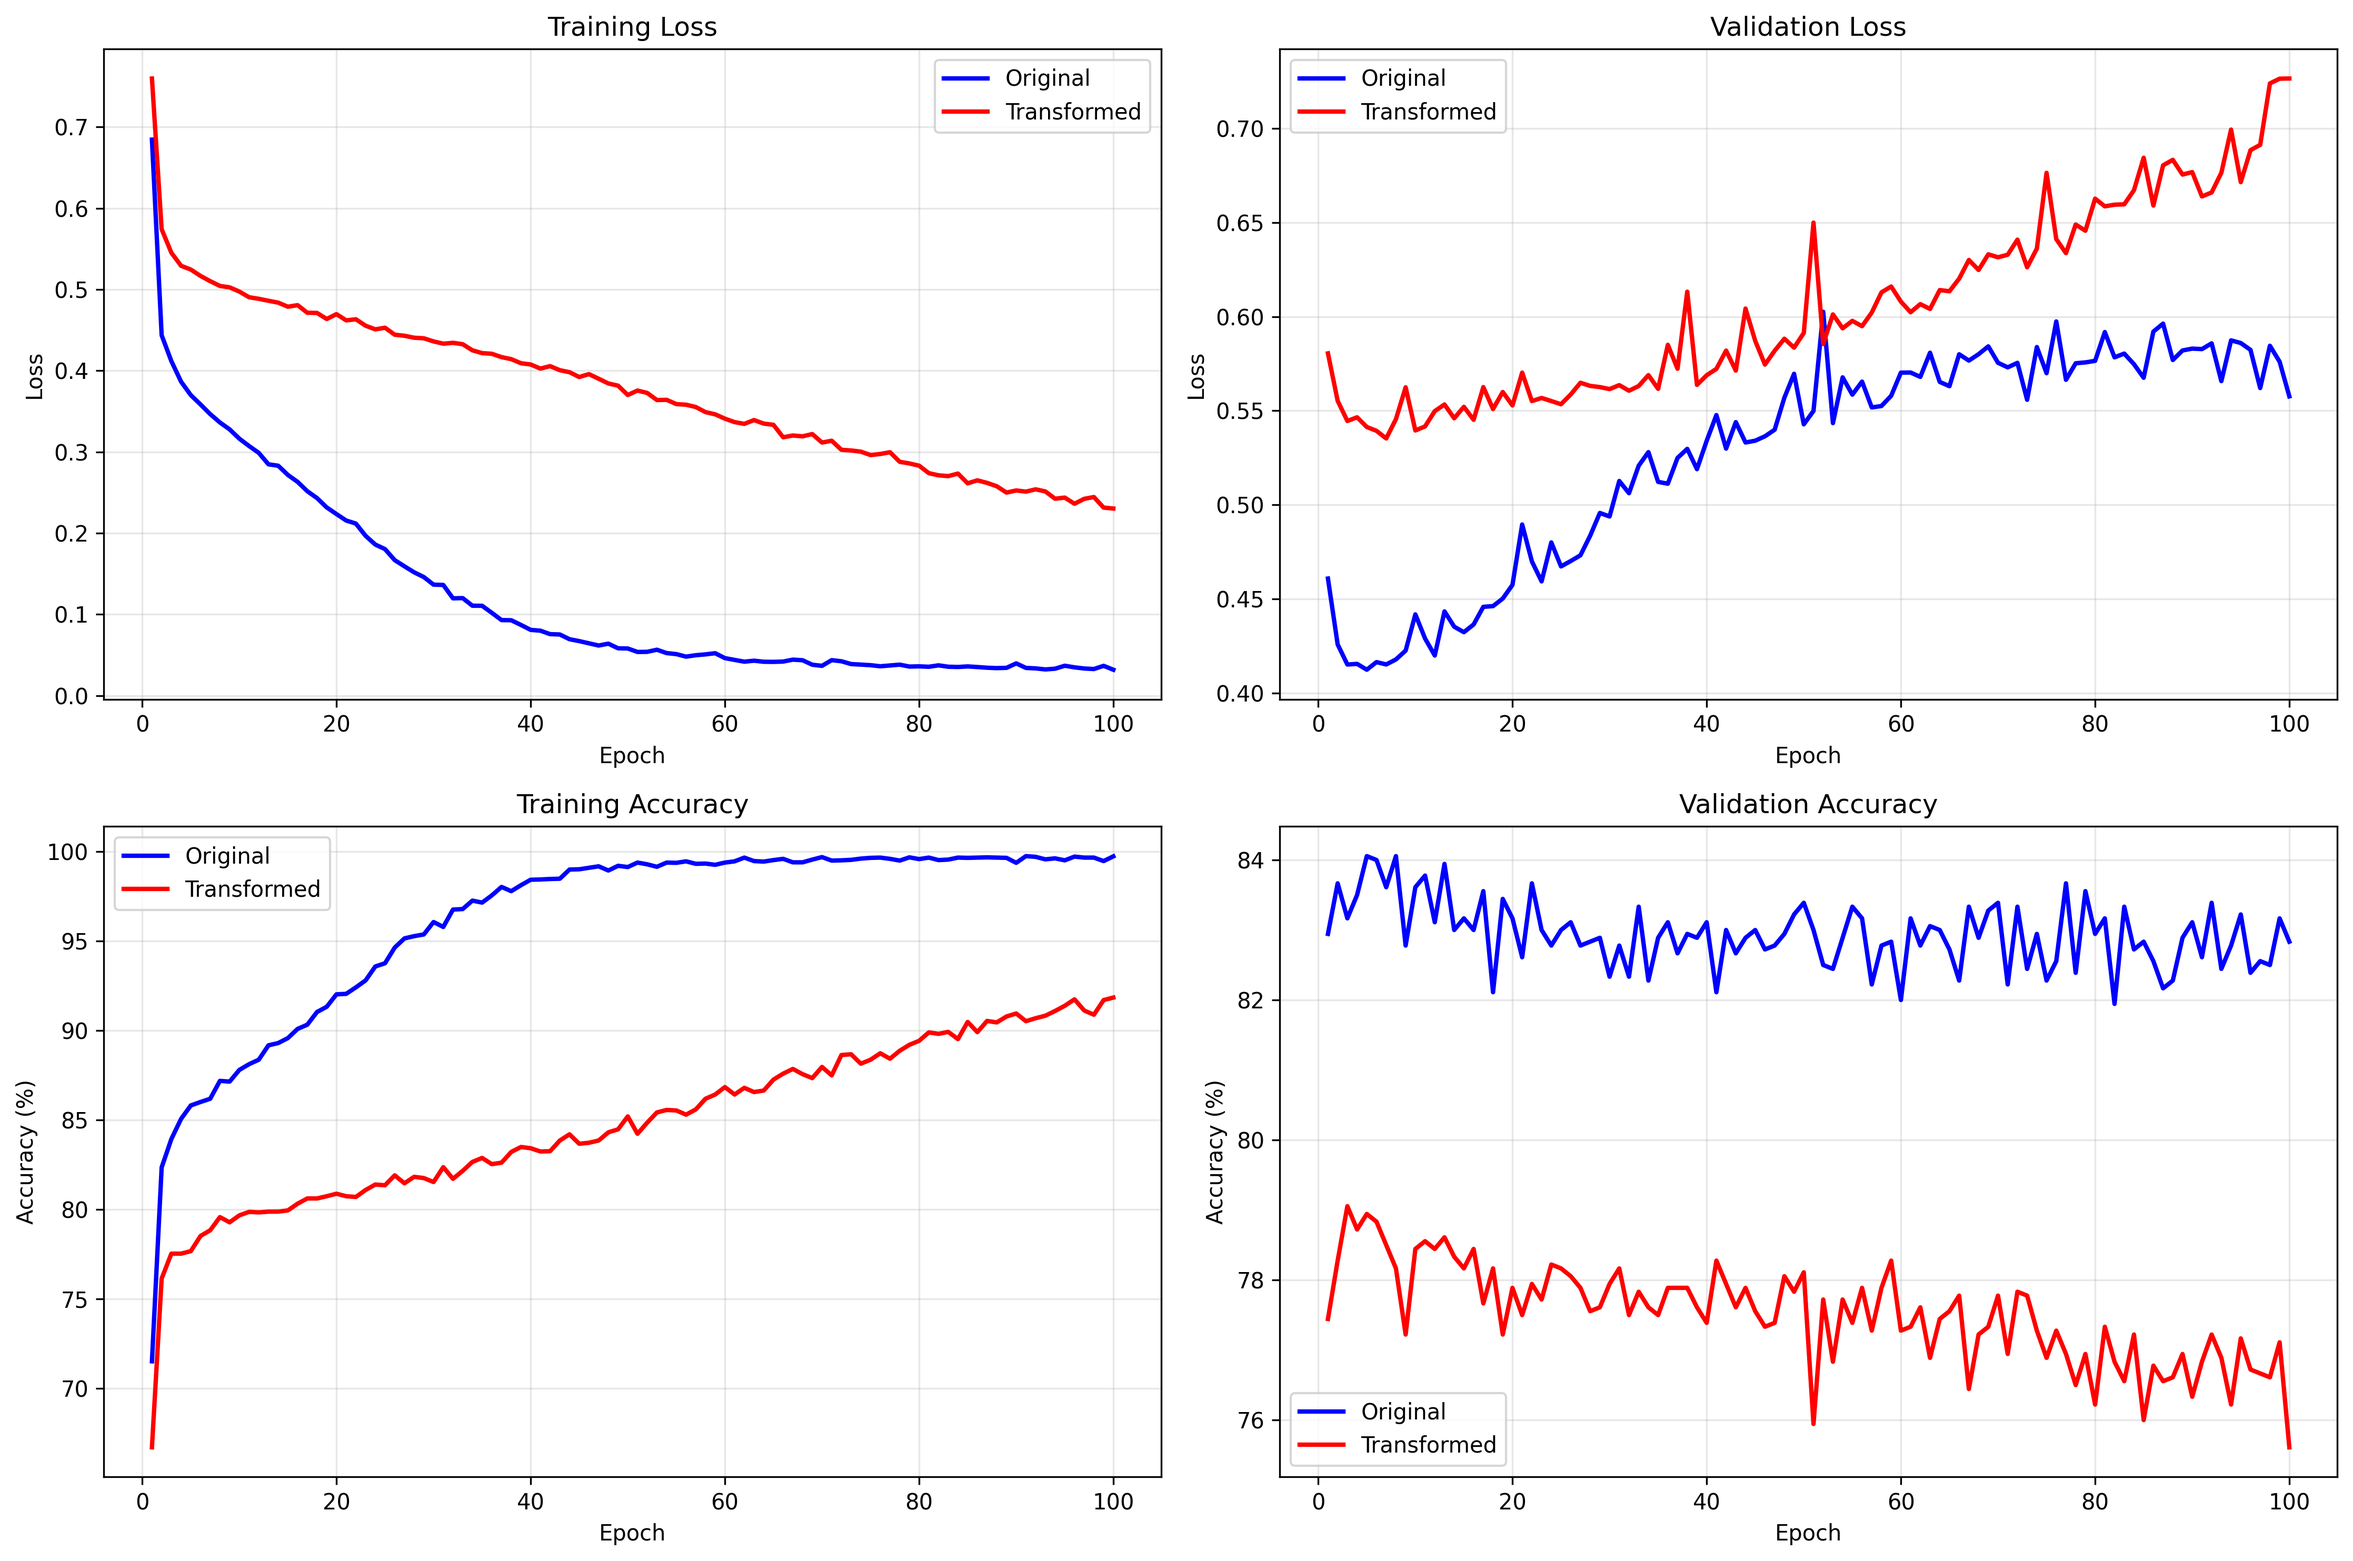
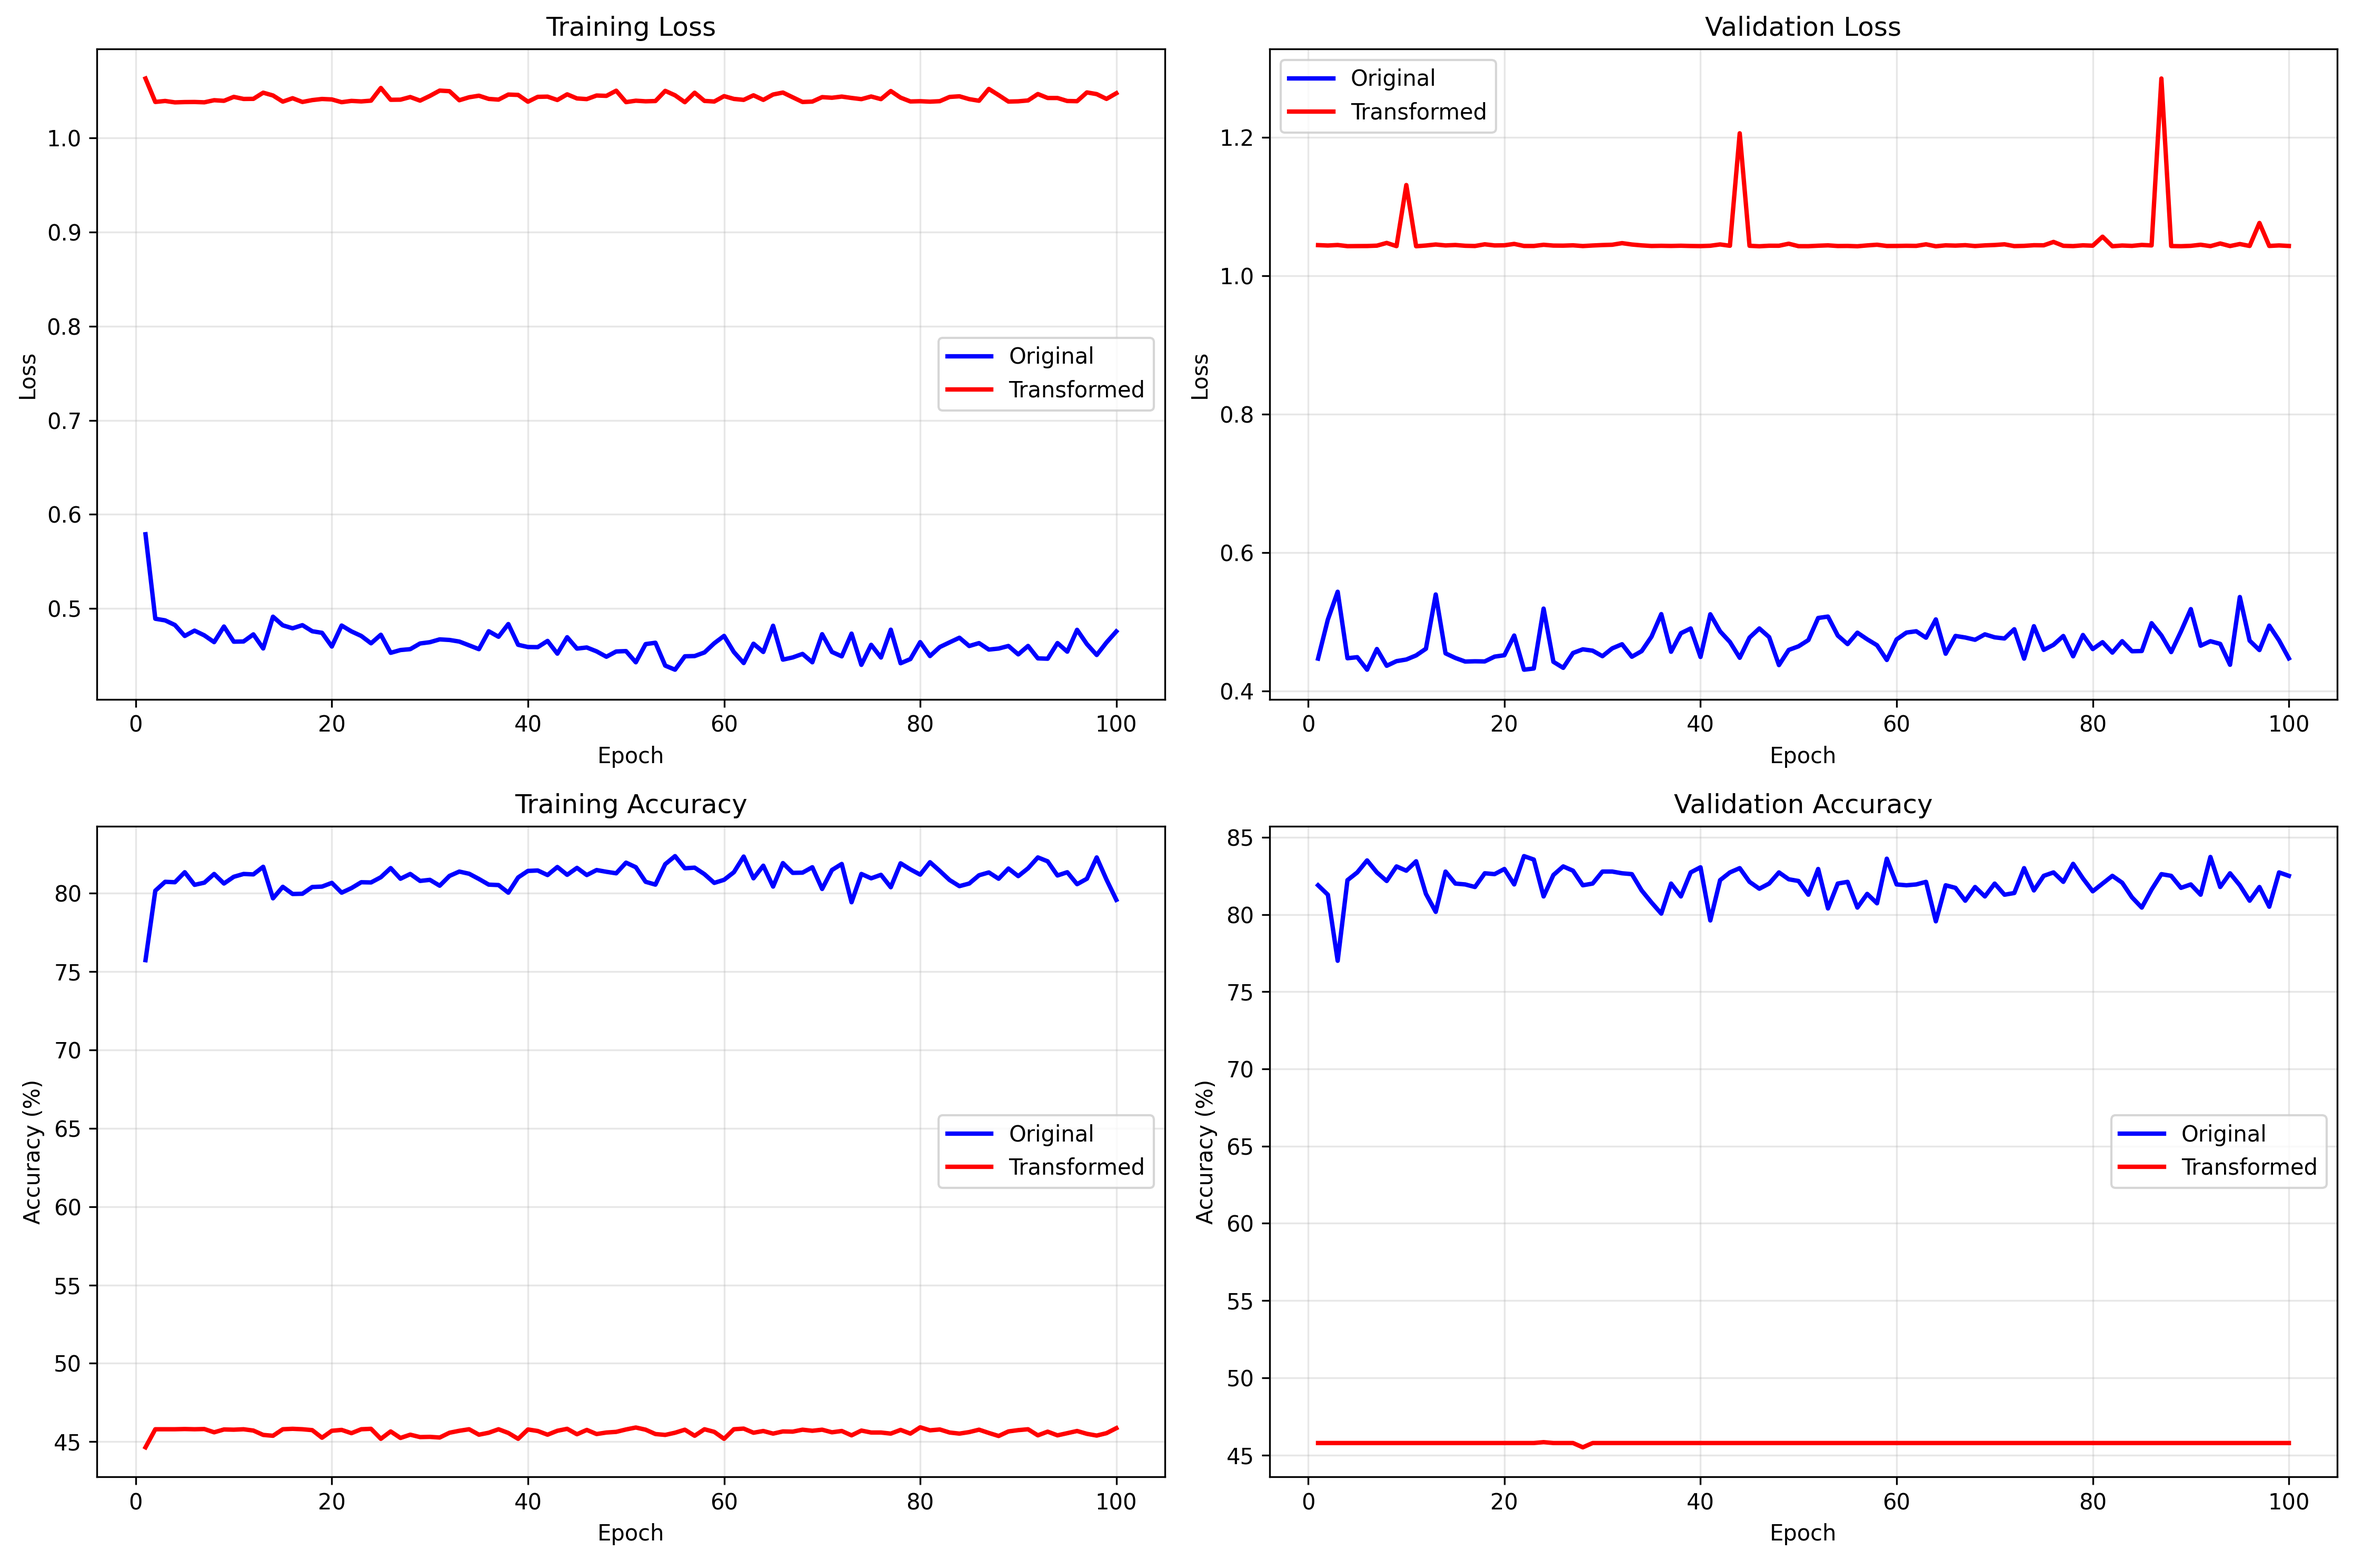
Update MLP training script and comparison plots; add OLD sigma0.1 figure archive.

diff --git a/train_mlp.py b/train_mlp.py
@@ -416,7 +416,7 @@ def main():
                        help='Hidden layer dimension')
     parser.add_argument('--batch-size', type=int, default=64,
                        help='Batch size')
-    parser.add_argument('--learning-rate', type=float, default=0.001,
+    parser.add_argument('--learning-rate', type=float, default=0.03,
                        help='Learning rate')
     parser.add_argument('--weight-decay', type=float, default=1e-4,
                        help='Weight decay (L2 regularization)')
